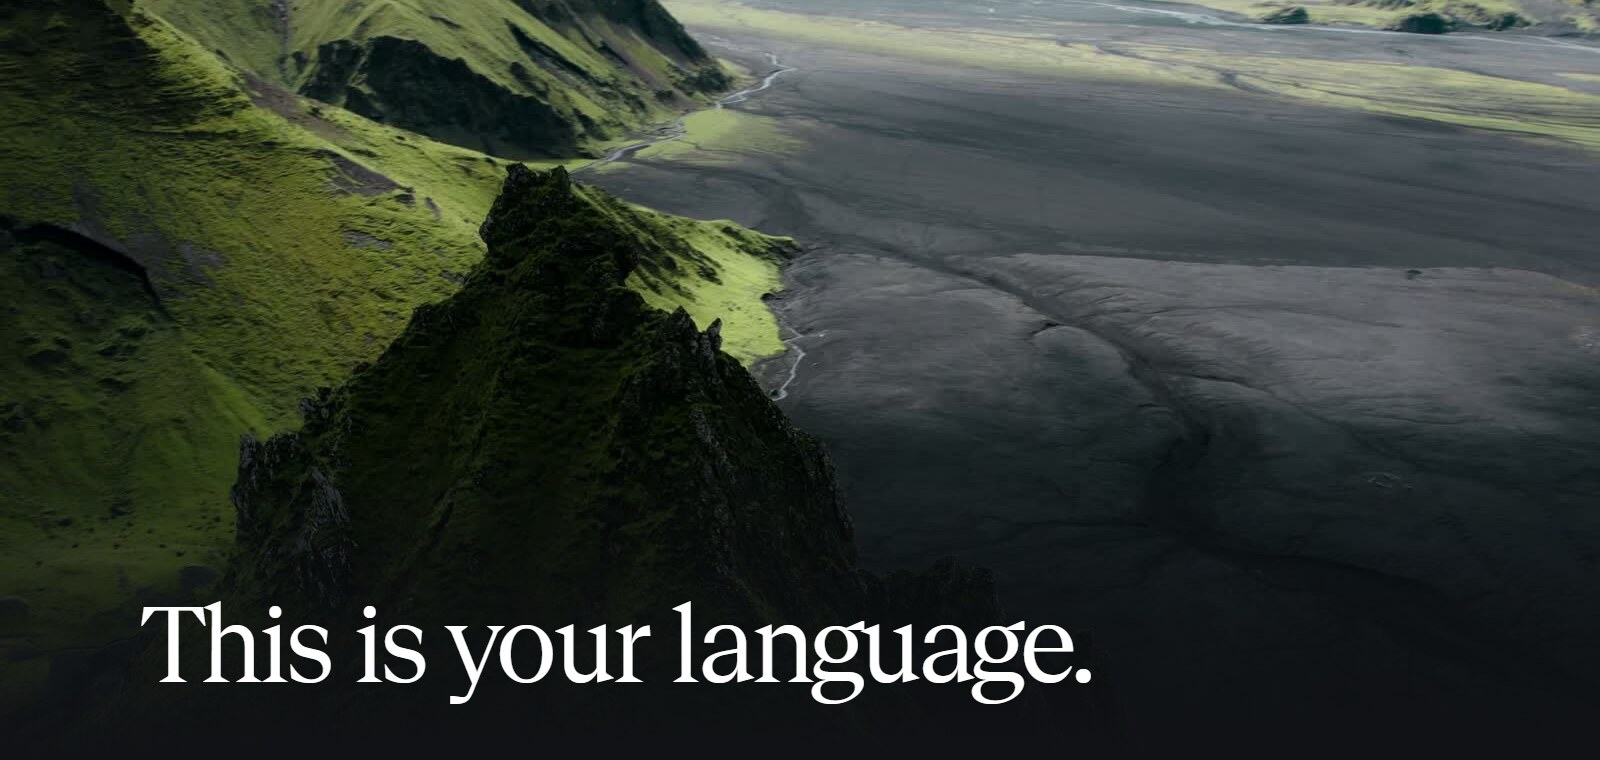
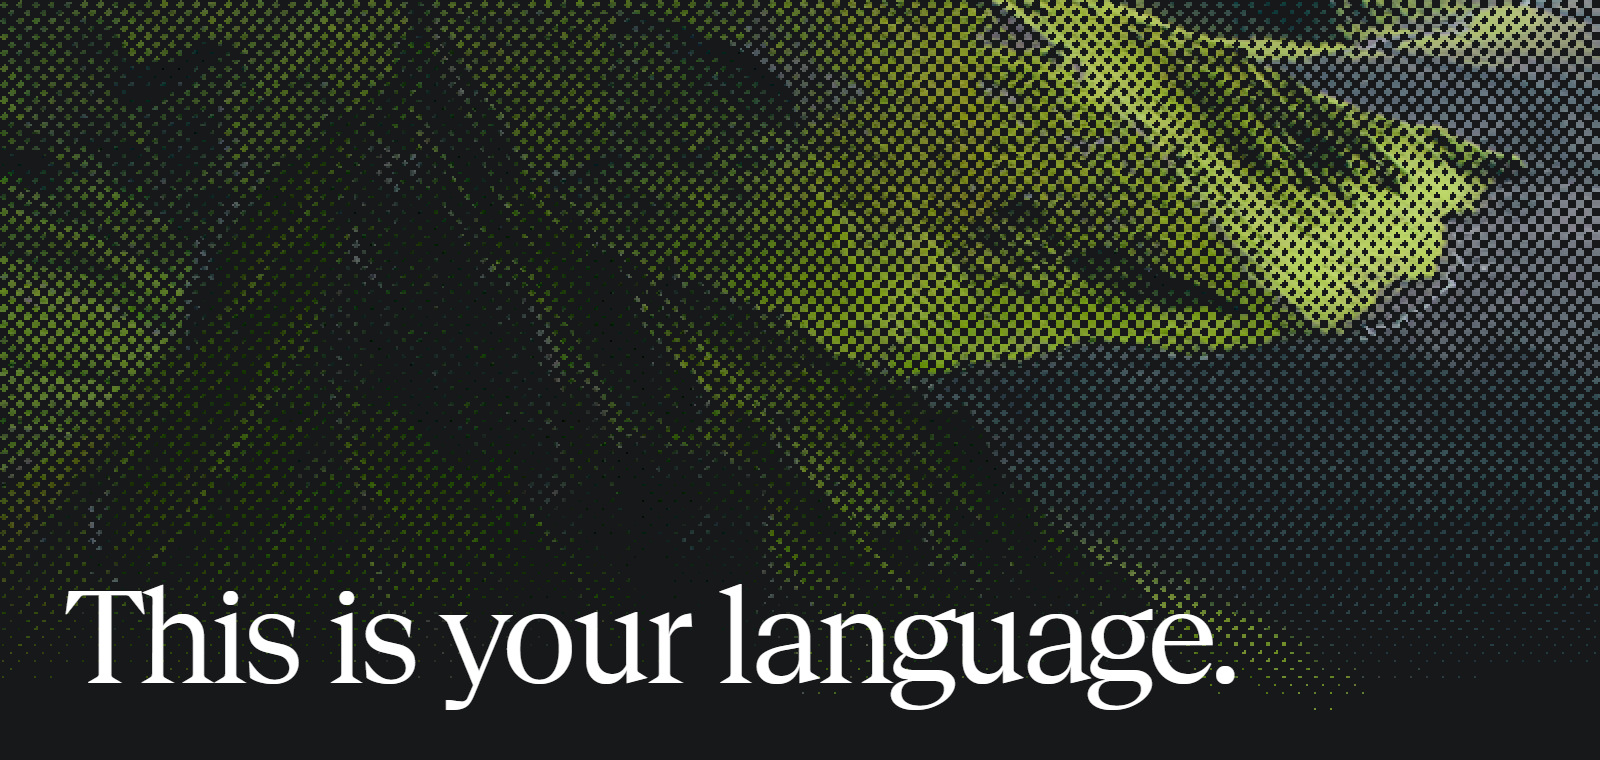
Website: a halftone link card, and share tags at the site's current address
The share tags and README link pointed at the old Pages host, which returns
404, so links unfurled with no image. They now use the-mettle-project.github.io.
The card is a frame of the hero in the page's colour halftone, at 2400x1260 so
the dots survive a chat client shrinking it. make_cards.py reads the shader's
threshold table from the template.

diff --git a/website/index.html b/website/index.html
@@ -4,23 +4,23 @@
 <meta charset="utf-8">
 <meta name="viewport" content="width=device-width, initial-scale=1">
 <title>Mettle</title>
-<meta name="description" content="A systems language with its own optimizer, assembler, linkers and runtime. It compiles to x86-64, ARM64 and GPU kernels.">
-<meta name="theme-color" content="#17181a">
-<link rel="canonical" href="https://suidvandiewereld.github.io/Mettle/">
+<meta name="description" content="A systems language. Generate code at compile time, write rules the compiler enforces, run kernels on the GPU, and change programs while they run.">
+<meta name="theme-color" content="#9db04a">
+<link rel="canonical" href="https://the-mettle-project.github.io/Mettle/">
 <meta property="og:type" content="website">
 <meta property="og:site_name" content="Mettle">
 <meta property="og:title" content="Mettle">
-<meta property="og:description" content="A systems language with its own optimizer, assembler, linkers and runtime. It compiles to x86-64, ARM64 and GPU kernels.">
-<meta property="og:url" content="https://suidvandiewereld.github.io/Mettle/">
-<meta property="og:image" content="https://suidvandiewereld.github.io/Mettle/media/og.jpg">
+<meta property="og:description" content="A systems language. Generate code at compile time, write rules the compiler enforces, run kernels on the GPU, and change programs while they run.">
+<meta property="og:url" content="https://the-mettle-project.github.io/Mettle/">
+<meta property="og:image" content="https://the-mettle-project.github.io/Mettle/media/og.jpg">
 <meta property="og:image:type" content="image/jpeg">
-<meta property="og:image:width" content="1200">
-<meta property="og:image:height" content="630">
-<meta property="og:image:alt" content="A green ridge above black sand in Iceland, with the words: This is your language.">
+<meta property="og:image:width" content="2400">
+<meta property="og:image:height" content="1260">
+<meta property="og:image:alt" content="A green ridge above black sand in Iceland, printed in a colour halftone, with the words: This is your language.">
 <meta name="twitter:card" content="summary_large_image">
 <meta name="twitter:title" content="Mettle">
-<meta name="twitter:description" content="A systems language with its own optimizer, assembler, linkers and runtime. It compiles to x86-64, ARM64 and GPU kernels.">
-<meta name="twitter:image" content="https://suidvandiewereld.github.io/Mettle/media/og.jpg">
+<meta name="twitter:description" content="A systems language. Generate code at compile time, write rules the compiler enforces, run kernels on the GPU, and change programs while they run.">
+<meta name="twitter:image" content="https://the-mettle-project.github.io/Mettle/media/og.jpg">
 <link rel="preconnect" href="https://fonts.googleapis.com">
 <link rel="preconnect" href="https://fonts.gstatic.com" crossorigin>
 <link href="https://fonts.googleapis.com/css2?family=IBM+Plex+Mono:wght@400;500&display=swap" rel="stylesheet">

diff --git a/website/template.html b/website/template.html
@@ -4,23 +4,23 @@
 <meta charset="utf-8">
 <meta name="viewport" content="width=device-width, initial-scale=1">
 <title>Mettle</title>
-<meta name="description" content="A systems language with its own optimizer, assembler, linkers and runtime. It compiles to x86-64, ARM64 and GPU kernels.">
-<meta name="theme-color" content="#17181a">
-<link rel="canonical" href="https://suidvandiewereld.github.io/Mettle/">
+<meta name="description" content="A systems language. Generate code at compile time, write rules the compiler enforces, run kernels on the GPU, and change programs while they run.">
+<meta name="theme-color" content="#9db04a">
+<link rel="canonical" href="https://the-mettle-project.github.io/Mettle/">
 <meta property="og:type" content="website">
 <meta property="og:site_name" content="Mettle">
 <meta property="og:title" content="Mettle">
-<meta property="og:description" content="A systems language with its own optimizer, assembler, linkers and runtime. It compiles to x86-64, ARM64 and GPU kernels.">
-<meta property="og:url" content="https://suidvandiewereld.github.io/Mettle/">
-<meta property="og:image" content="https://suidvandiewereld.github.io/Mettle/media/og.jpg">
+<meta property="og:description" content="A systems language. Generate code at compile time, write rules the compiler enforces, run kernels on the GPU, and change programs while they run.">
+<meta property="og:url" content="https://the-mettle-project.github.io/Mettle/">
+<meta property="og:image" content="https://the-mettle-project.github.io/Mettle/media/og.jpg">
 <meta property="og:image:type" content="image/jpeg">
-<meta property="og:image:width" content="1200">
-<meta property="og:image:height" content="630">
-<meta property="og:image:alt" content="A green ridge above black sand in Iceland, with the words: This is your language.">
+<meta property="og:image:width" content="2400">
+<meta property="og:image:height" content="1260">
+<meta property="og:image:alt" content="A green ridge above black sand in Iceland, printed in a colour halftone, with the words: This is your language.">
 <meta name="twitter:card" content="summary_large_image">
 <meta name="twitter:title" content="Mettle">
-<meta name="twitter:description" content="A systems language with its own optimizer, assembler, linkers and runtime. It compiles to x86-64, ARM64 and GPU kernels.">
-<meta name="twitter:image" content="https://suidvandiewereld.github.io/Mettle/media/og.jpg">
+<meta name="twitter:description" content="A systems language. Generate code at compile time, write rules the compiler enforces, run kernels on the GPU, and change programs while they run.">
+<meta name="twitter:image" content="https://the-mettle-project.github.io/Mettle/media/og.jpg">
 <link rel="preconnect" href="https://fonts.googleapis.com">
 <link rel="preconnect" href="https://fonts.gstatic.com" crossorigin>
 <link href="https://fonts.googleapis.com/css2?family=IBM+Plex+Mono:wght@400;500&display=swap" rel="stylesheet">

diff --git a/website/make_cards.py b/website/make_cards.py
@@ -1,51 +1,97 @@
+import math
 import os
+import re
 import subprocess
+
+import numpy as np
+from PIL import Image
 
 from make_readme_art import CACHE, HERE, edge
 
 HEADLINE = "This is your language."
 BRAND = '<svg viewBox="0 0 150 150"><polygon points="56.4 63.7 69.5 34.8 113.7 32.3 133.5 51 122.3 74.9 130.2 88.3 147.6 48 119.6 20.8 62.4 20.9 42.4 63.7"/><polygon points="60.6 63.7 68.9 57.7 95.6 57.7 108.9 63.6"/><polygon points="47.9 67 109.2 88.8 114.3 97.6 138 109.5 114.2 66.9"/><path d="m140.4 114.6-94.1-45.1-2.9 6 43.7 41.8-23.6 0.1-20.8-40.3-24.2 51.9 129.7-0.1-7.8-14.3z"/><path d="m14.2 63-12.1 5.5 1.4 2.1 23.1 32.4 13.9-29.1-26.3-10.9zm14.7 22.3-17.3-19.9 24.4 10.3-7.1 9.6z"/></svg>Mettle'
+GROUND = np.array([23, 24, 26], dtype=np.float32) / 255
+WEIGHTS = np.array([0.299, 0.587, 0.114], dtype=np.float32)
 
 CARDS = [
-    ("og", 1200, 630, 82, 40, 44, BRAND),
-    ("readme-banner", 1600, 760, 104, 140, 62, ""),
+    ("og", 1200, 630, 2, 2, 108, 48, 46, BRAND, [(48, 26, 170, 66)]),
+    ("readme-banner", 1600, 760, 1, 2, 128, 64, 56, "", []),
 ]
 
 PAGE = """<!doctype html>
 <meta charset="utf-8">
 <style>
 @font-face { font-family: "Geist Serif"; src: url("%(font)s") format("woff2"); }
-html, body { margin: 0; width: %(w)dpx; height: %(h)dpx; overflow: hidden; background: #101215; }
-img { position: absolute; inset: 0; width: 100%%; height: 100%%; object-fit: cover; object-position: 50%% 50%%; }
-.fade { position: absolute; left: 0; right: 0; bottom: 0; height: 44%%; background: linear-gradient(to bottom, rgba(16, 18, 21, 0), rgba(16, 18, 21, 0.72) 62%%, #101215); }
+html, body { margin: 0; width: %(w)dpx; height: %(h)dpx; overflow: hidden; background: #17181a; }
+img { position: absolute; inset: 0; width: 100%%; height: 100%%; image-rendering: pixelated; }
 h1 { position: absolute; left: %(x)dpx; bottom: %(y)dpx; margin: 0; font: 400 %(size)dpx/1.02 "Geist Serif", serif; letter-spacing: -0.028em; color: #fff; font-synthesis: none; }
-.brand { position: absolute; left: 40px; top: 22px; display: flex; align-items: center; gap: 10px; font: 400 21px "Geist Serif", serif; color: #fff; }
-.brand svg { width: 24px; height: 24px; fill: currentColor; }
+.brand { position: absolute; left: 48px; top: 30px; display: flex; align-items: center; gap: 12px; font: 400 28px "Geist Serif", serif; color: #fff; }
+.brand svg { width: 32px; height: 32px; fill: currentColor; }
 </style>
-<img src="%(poster)s">
-<div class="fade"></div>
+<img src="%(picture)s">
 <div class="brand">%(brand)s</div>
 <h1>%(headline)s</h1>
 """
 
 
-def uri(*parts):
-    return "file:///" + os.path.join(HERE, *parts).replace("\\", "/")
+def uri(path):
+    return "file:///" + path.replace("\\", "/")
+
+
+def smooth(a, b, x):
+    t = np.clip((x - a) / (b - a), 0, 1)
+    return t * t * (3 - 2 * t)
+
+
+def halftone_table():
+    with open(os.path.join(HERE, "template.html"), "rb") as f:
+        text = f.read().decode("utf-8")
+    values = re.search(r"var HALFTONE = \[([^\]]+)\]", text).group(1)
+    return np.array([int(v) for v in values.split(",")], dtype=np.float32).reshape(8, 8) / 64
+
+
+def dithered(w, h, cell, density, clearings):
+    table = halftone_table()
+    w *= density
+    h *= density
+    gw = math.ceil(w / cell)
+    gh = math.ceil(h / cell)
+    poster = Image.open(os.path.join(HERE, "media", "card-frame.jpg")).convert("RGB")
+    scale = max(gw / poster.width, gh / poster.height)
+    poster = poster.resize((math.ceil(poster.width * scale), math.ceil(poster.height * scale)), Image.LANCZOS)
+    left = (poster.width - gw) // 2
+    top = (poster.height - gh) // 2
+    rgb = np.asarray(poster.crop((left, top, left + gw, top + gh)), dtype=np.float32) / 255
+    lum = rgb @ WEIGHTS
+    grey = lum[..., None]
+    ink = np.clip((grey + (rgb - grey) * 1.25) * 0.95 * np.power(np.maximum(grey, 0.02), -0.38), 0, 1)
+    ys, xs = np.mgrid[0:gh, 0:gw]
+    shaped = np.power(lum, 0.62) * smooth(0.0, 0.42, 1 - (ys + 0.5) / gh)
+    for x0, y0, x1, y1 in clearings:
+        dx = np.maximum(np.maximum(x0 * density - (xs + 0.5) * cell, (xs + 0.5) * cell - x1 * density), 0)
+        dy = np.maximum(np.maximum(y0 * density - (ys + 0.5) * cell, (ys + 0.5) * cell - y1 * density), 0)
+        shaped = shaped * smooth(2.0 * density, 76.0 * density, np.hypot(dx, dy))
+    limit = table[(gh - 1 - ys) % 8, xs % 8]
+    on = (shaped >= limit + 0.034)[..., None]
+    grid = Image.fromarray((np.clip(GROUND * (1 - on) + ink * on, 0, 1) * 255 + 0.5).astype(np.uint8))
+    return grid.resize((gw * cell, gh * cell), Image.NEAREST).crop((0, 0, w, h))
 
 
 def main():
     os.makedirs(CACHE, exist_ok=True)
     browser = edge()
     profile = os.path.join(CACHE, "profile")
-    for name, w, h, size, x, y, brand in CARDS:
+    for name, w, h, density, cell, size, x, y, brand, clearings in CARDS:
+        picture = os.path.join(CACHE, name + "-dither.png")
+        dithered(w, h, cell, density, clearings).save(picture)
         tmp = os.path.join(CACHE, name + ".html")
         with open(tmp, "wb") as f:
-            f.write((PAGE % {"font": uri("fonts", "GeistSerif-Regular.woff2"), "poster": uri("media", "hero-poster.jpg"), "w": w, "h": h, "size": size, "x": x, "y": y, "brand": brand, "headline": HEADLINE}).encode("utf-8"))
+            f.write((PAGE % {"font": uri(os.path.join(HERE, "fonts", "GeistSerif-Regular.woff2")), "picture": uri(picture), "w": w, "h": h, "size": size, "x": x, "y": y, "brand": brand, "headline": HEADLINE}).encode("utf-8"))
         png = os.path.join(CACHE, name + ".png")
-        subprocess.run([browser, "--headless=new", "--disable-gpu", "--hide-scrollbars", "--user-data-dir=" + profile, "--virtual-time-budget=2500", "--allow-file-access-from-files", "--window-size=%d,%d" % (w, h), "--screenshot=" + png, "file:///" + tmp.replace("\\", "/")], stdout=subprocess.DEVNULL, stderr=subprocess.DEVNULL, timeout=120, check=True)
+        subprocess.run([browser, "--headless=new", "--disable-gpu", "--hide-scrollbars", "--force-device-scale-factor=%d" % density, "--user-data-dir=" + profile, "--virtual-time-budget=2500", "--allow-file-access-from-files", "--window-size=%d,%d" % (w, h), "--screenshot=" + png, uri(tmp)], stdout=subprocess.DEVNULL, stderr=subprocess.DEVNULL, timeout=120, check=True)
         jpg = os.path.join(HERE, "media", name + ".jpg")
-        subprocess.run(["magick", png, "-strip", "-quality", "88", "-sampling-factor", "4:2:0", jpg], check=True)
-        print(name, "%dx%d" % (w, h), os.path.getsize(jpg) // 1024, "KB")
+        subprocess.run(["magick", png, "-strip", "-quality", "93", "-sampling-factor", "4:4:4", jpg], check=True)
+        print(name, "%dx%d" % (w * density, h * density), os.path.getsize(jpg) // 1024, "KB")
 
 
 if __name__ == "__main__":

diff --git a/README.md b/README.md
@@ -1,4 +1,4 @@
-<a href="https://suidvandiewereld.github.io/Mettle/"><img src="website/media/readme-banner.jpg" alt="This is your language." width="100%"></a>
+<a href="https://the-mettle-project.github.io/Mettle/"><img src="website/media/readme-banner.jpg" alt="This is your language." width="100%"></a>
 
 **Mettle is a systems language with its own optimizer, linker, runtime and debugger.** It compiles to native code for x86-64 and ARM64, and to PTX, SPIR-V and Metal for GPUs.
 
